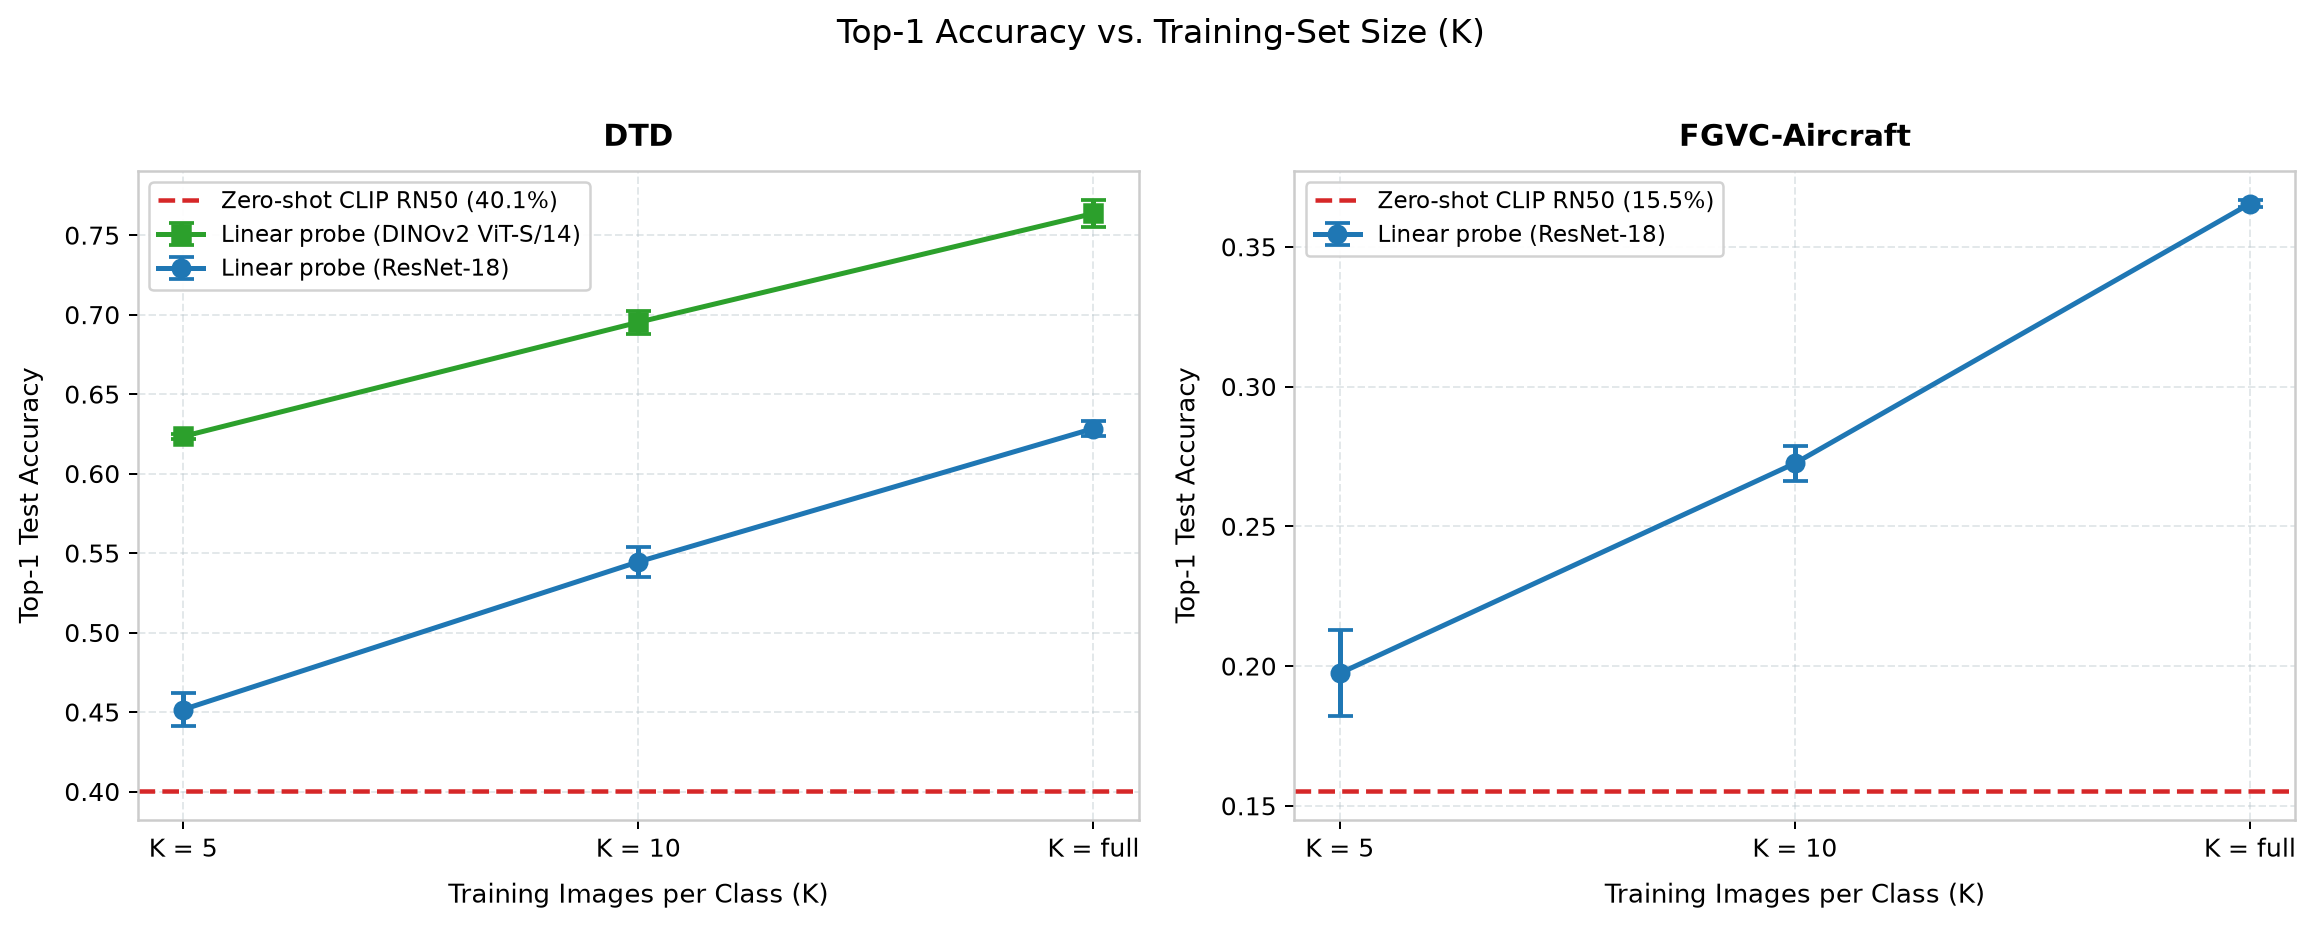
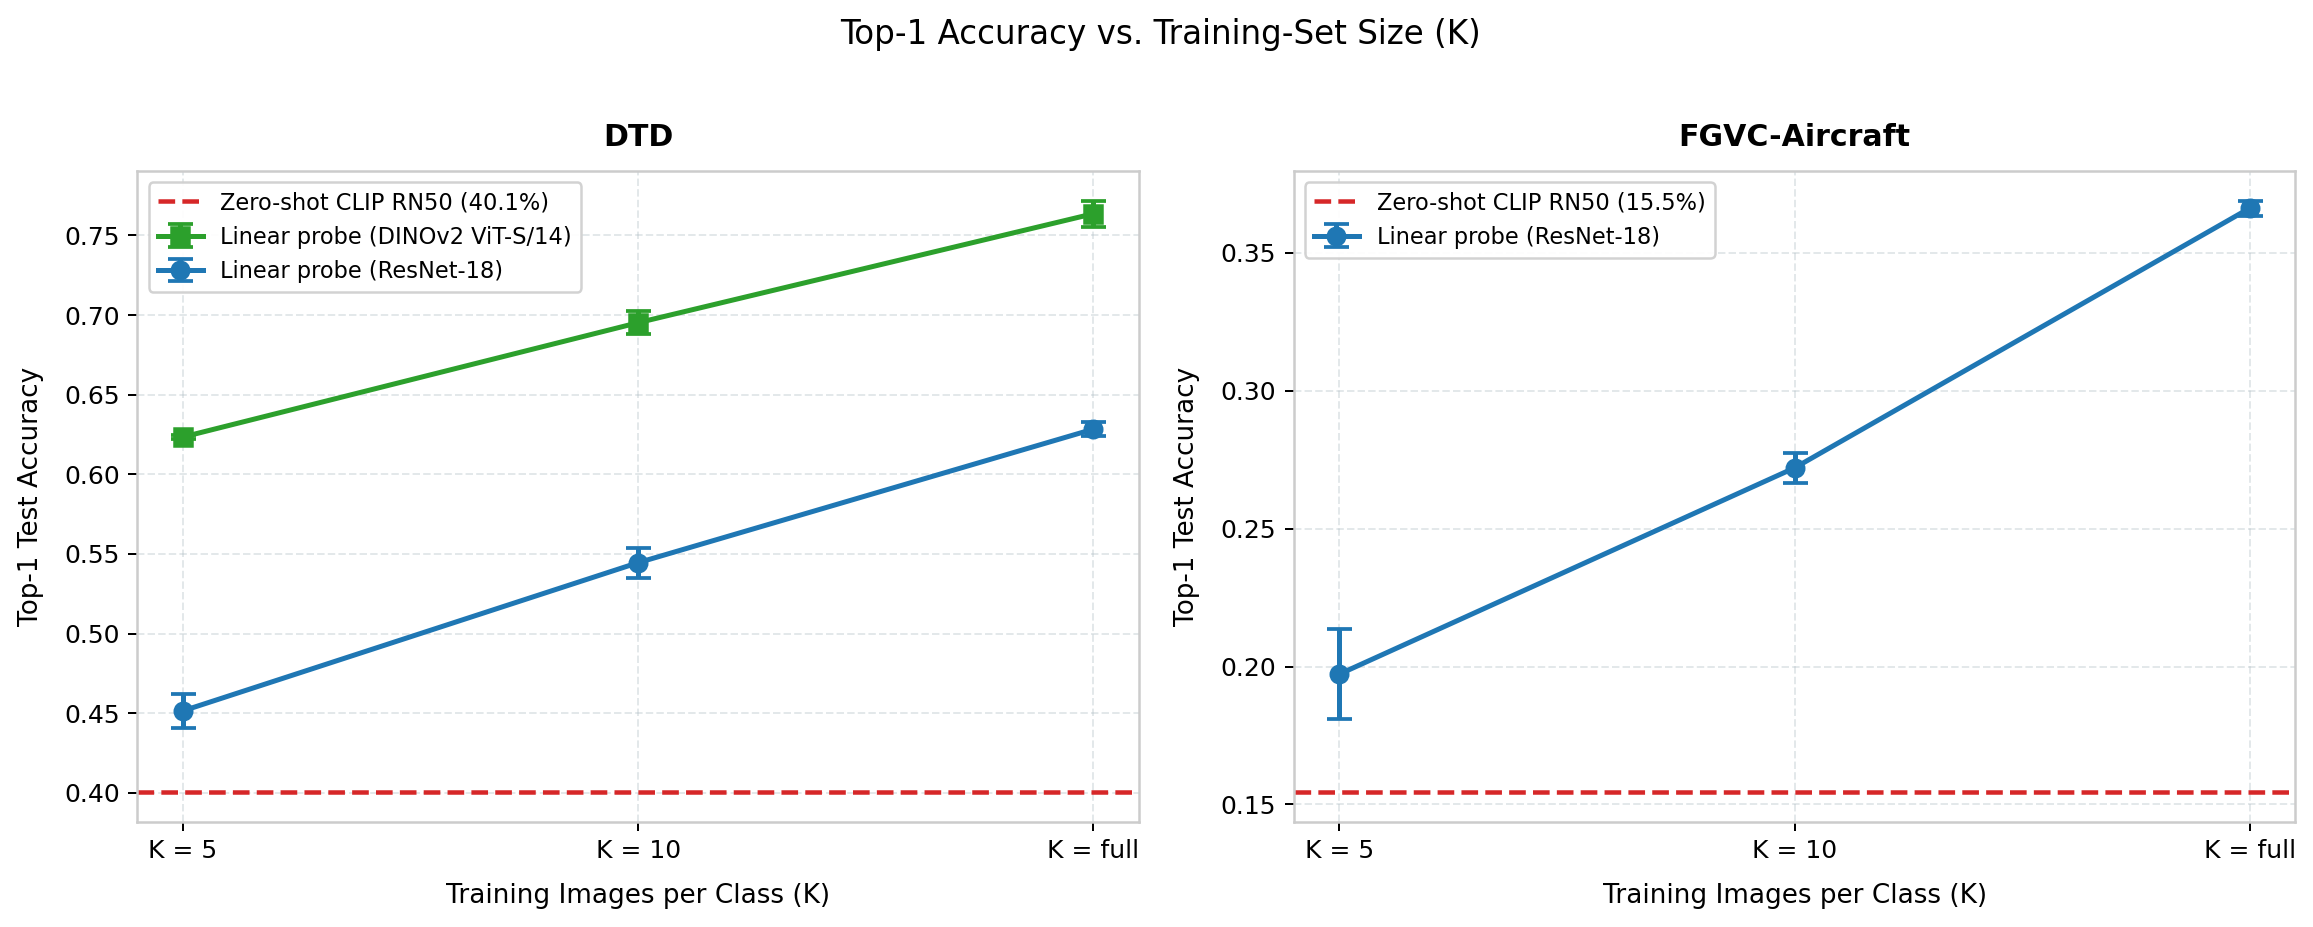
Refresh Stage 1 figures and numbers from the re-run notebook

diff --git a/docs/stage1.md b/docs/stage1.md
@@ -25,7 +25,7 @@ is one run per dataset.
 
 | Method | Encoder | K | Top-1 accuracy |
 | --- | --- | --- | --- |
-| Linear probe | ResNet-18 | 5 | 0.4516 +/- 0.0103 |
+| Linear probe | ResNet-18 | 5 | 0.4514 +/- 0.0105 |
 | Linear probe | ResNet-18 | 10 | 0.5445 +/- 0.0094 |
 | Linear probe | ResNet-18 | full | 0.6284 +/- 0.0045 |
 | Linear probe | DINOv2 ViT-S/14 | 5 | 0.6234 +/- 0.0014 |
@@ -37,10 +37,10 @@ is one run per dataset.
 
 | Method | Encoder | K | Top-1 accuracy |
 | --- | --- | --- | --- |
-| Linear probe | ResNet-18 | 5 | 0.1974 +/- 0.0153 |
-| Linear probe | ResNet-18 | 10 | 0.2725 +/- 0.0062 |
-| Linear probe | ResNet-18 | full | **0.3654 +/- 0.0012** |
-| Zero-shot CLIP | CLIP RN50 | n/a | 0.1554 |
+| Linear probe | ResNet-18 | 5 | 0.1972 +/- 0.0162 |
+| Linear probe | ResNet-18 | 10 | 0.2720 +/- 0.0056 |
+| Linear probe | ResNet-18 | full | **0.3662 +/- 0.0027** |
+| Zero-shot CLIP | CLIP RN50 | n/a | 0.1545 |
 
 <details>
 <summary>Per-run detail (27 runs), with the epoch selected by checkpointing</summary>
@@ -48,22 +48,22 @@ is one run per dataset.
 | Encoder | Dataset | K | Seed | Train images | Val acc @ epoch | Test acc |
 | --- | --- | --- | --- | --- | --- | --- |
 | ResNet-18 | DTD | 5 | 0 | 235 | 0.4489 @ 125 | 0.4628 |
-| ResNet-18 | DTD | 5 | 1 | 235 | 0.4559 @ 32 | 0.4426 |
+| ResNet-18 | DTD | 5 | 1 | 235 | 0.4553 @ 31 | 0.4420 |
 | ResNet-18 | DTD | 5 | 2 | 235 | 0.4309 @ 150 | 0.4495 |
 | ResNet-18 | DTD | 10 | 0 | 470 | 0.5074 @ 32 | 0.5399 |
-| ResNet-18 | DTD | 10 | 1 | 470 | 0.5378 @ 65 | 0.5383 |
+| ResNet-18 | DTD | 10 | 1 | 470 | 0.5383 @ 65 | 0.5383 |
 | ResNet-18 | DTD | 10 | 2 | 470 | 0.5144 @ 27 | 0.5553 |
-| ResNet-18 | DTD | full | 0 | 1880 | 0.6080 @ 23 | 0.6335 |
+| ResNet-18 | DTD | full | 0 | 1880 | 0.6085 @ 23 | 0.6335 |
 | ResNet-18 | DTD | full | 1 | 1880 | 0.6064 @ 16 | 0.6255 |
-| ResNet-18 | DTD | full | 2 | 1880 | 0.6069 @ 18 | 0.6261 |
-| ResNet-18 | Aircraft | 5 | 0 | 500 | 0.1872 @ 111 | 0.1806 |
-| ResNet-18 | Aircraft | 5 | 1 | 500 | 0.2058 @ 182 | 0.2010 |
-| ResNet-18 | Aircraft | 5 | 2 | 500 | 0.2064 @ 199 | 0.2106 |
-| ResNet-18 | Aircraft | 10 | 0 | 1000 | 0.2658 @ 196 | 0.2781 |
-| ResNet-18 | Aircraft | 10 | 1 | 1000 | 0.2571 @ 166 | 0.2658 |
-| ResNet-18 | Aircraft | 10 | 2 | 1000 | 0.2523 @ 65 | 0.2736 |
-| ResNet-18 | Aircraft | full | 0 | 3334 | 0.3834 @ 200 | 0.3654 |
-| ResNet-18 | Aircraft | full | 1 | 3334 | 0.3840 @ 138 | 0.3642 |
+| ResNet-18 | DTD | full | 2 | 1880 | 0.6064 @ 18 | 0.6261 |
+| ResNet-18 | Aircraft | 5 | 0 | 500 | 0.1869 @ 75 | 0.1794 |
+| ResNet-18 | Aircraft | 5 | 1 | 500 | 0.2055 @ 182 | 0.2010 |
+| ResNet-18 | Aircraft | 5 | 2 | 500 | 0.2061 @ 183 | 0.2112 |
+| ResNet-18 | Aircraft | 10 | 0 | 1000 | 0.2658 @ 196 | 0.2778 |
+| ResNet-18 | Aircraft | 10 | 1 | 1000 | 0.2571 @ 158 | 0.2667 |
+| ResNet-18 | Aircraft | 10 | 2 | 1000 | 0.2520 @ 46 | 0.2715 |
+| ResNet-18 | Aircraft | full | 0 | 3334 | 0.3831 @ 164 | 0.3633 |
+| ResNet-18 | Aircraft | full | 1 | 3334 | 0.3843 @ 175 | 0.3687 |
 | ResNet-18 | Aircraft | full | 2 | 3334 | 0.3834 @ 157 | 0.3666 |
 | DINOv2 | DTD | 5 | 0 | 235 | 0.6197 @ 192 | 0.6250 |
 | DINOv2 | DTD | 5 | 1 | 235 | 0.6319 @ 157 | 0.6229 |
@@ -101,8 +101,10 @@ selected checkpoint.
 ![Training curves](figures/curves_combined_k10_seed0.png)
 
 - Training is stable: the train loss falls smoothly, with no oscillation at lr 1e-3.
-- Overfitting is clear and depends on K. With the full split the selected epoch collapses to
-  **12-30**, while few-shot runs select epochs **125-199** and are still underfitted at 200.
+- Overfitting scales with the amount of data. On DTD the full-split runs peak very early
+  (epochs 12-30) and only overfit afterwards, while the DINOv2 few-shot runs peak late
+  (140-193). On Aircraft even the full-split runs peak late (157-175), so 200 epochs is not
+  excessive there.
 
 ---
 
